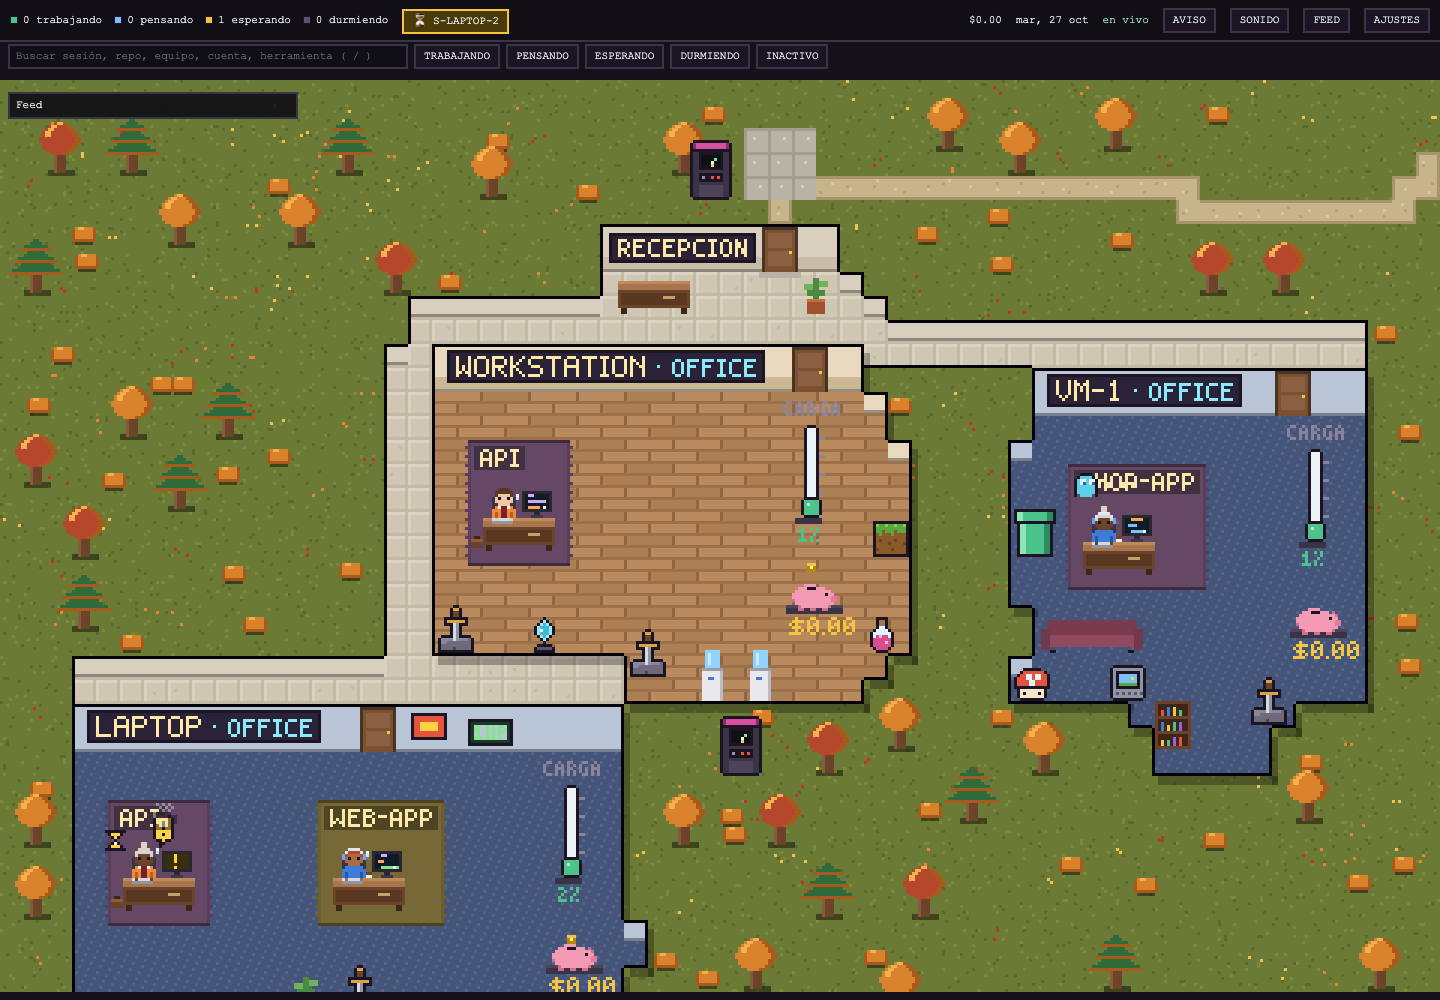
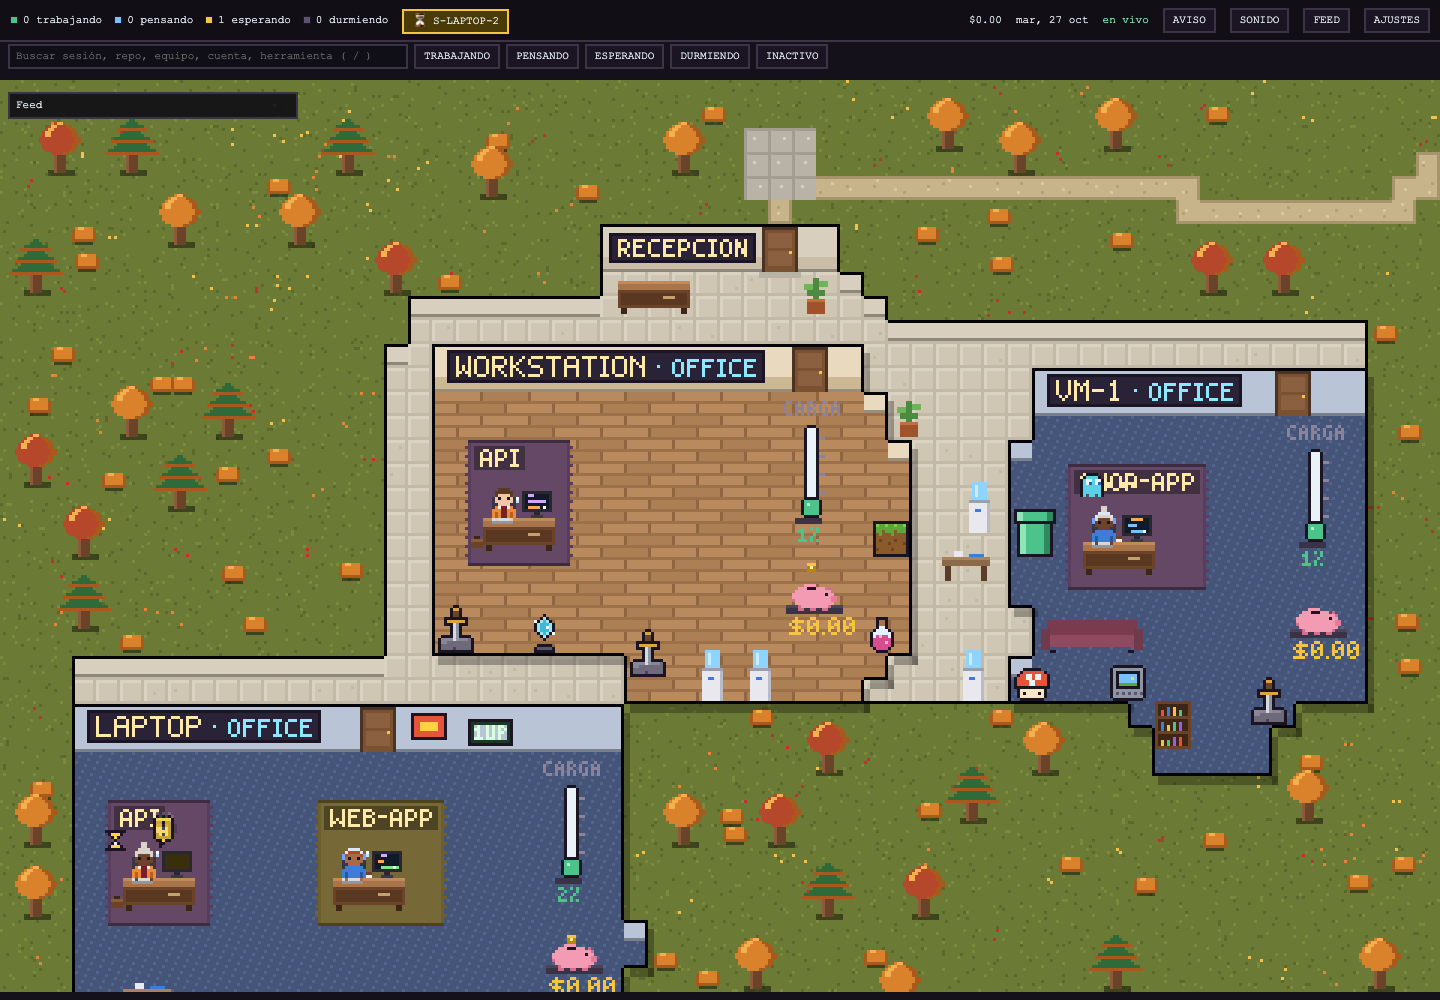
docs y capturas: huella compacta, puertas interiores, liberación hacia común

diff --git a/docs/world.md b/docs/world.md
@@ -55,8 +55,10 @@ sin camino.
 1. **Salas** (`makeDraft`): el contenido (zonas, agentes, cápsulas) fija el ancho y el alto de la sala.
 2. **Mantener / reclamar / colocar** (ver más abajo).
 3. **Pasillos** (`routeDoor`): cada puerta, por orden de antigüedad, se une a la red por la ruta más
-   barata (Dijkstra multiobjetivo sobre tiles compartidos o libres): 0,25 en pasillo previo, 0,5 en suelo
-   común, 1 + ruido en hierba, 4 a través del ala de otra oficina (expropiación: la vecina cede el tile).
+   barata (Dijkstra multiobjetivo sobre tiles compartidos o libres): 0,25 en la red y en pasillo previo
+   que siga pegado a la planta (uno que quedó al aire tras una liberación cuesta como hierba), 0,5 en
+   suelo común, hierba 0,4 + ruido si toca la planta (los pasillos **abrazan los muros**, van por dentro)
+   y +0,9 si no, +2,5 en las columnas laterales, 4 a través del ala de otra oficina (expropiación).
    Las rutas se ensanchan a dos tiles (hacia arriba en tramos horizontales, hacia el este en verticales).
    Las oficinas nuevas se colocan y enrutan una a una; un sitio cuyo pasillo no llega a la recepción se
    descarta y el barrido sigue. Lo que fue pasillo y ya no lleva a nadie vuelve a ser suelo libre.
@@ -67,11 +69,19 @@ sin camino.
    área objetivo = sala × (1,25..1,6), tope 40 tiles de ala, alcance 4 tiles de la sala. Una pasada
    **celular** rellena entrantes (un tile libre con ≥ 3 vecinos de la oficina se une). Luego `shapeUp`
    (bloques 2×2, conexión con la sala) y recorte de lo que no se alcanza desde la entrada.
-5. **Bolsas** (`settlePockets`): todo tile libre encerrado (sin salida a la hierba exterior) pasa a suelo
-   común; si solo lo rodea una oficina y ningún pasillo, se lo queda esa oficina (sin huecos inútiles).
+5. **Huella compacta** (`fillInterior`, `settlePockets`): la planta es una sola masa. Un tile de hierba
+   con suelo a ≤ `COMPACT_N` (4) tiles por ambos lados de su fila, o de su columna, está dentro del
+   edificio y pasa a suelo común (se repite hasta que nada cambia: las concavidades profundas se llenan;
+   solo el contorno exterior es orgánico). Lo mismo para todo hueco encerrado. Se hace antes de que
+   crezcan las alas (para que lo reclamen por acreción) y después. Una bolsa rodeada por una sola
+   oficina en crecimiento y sin pasillo se la queda ella (si cabe en su demanda); un tile de bolsa con
+   oficina a ambos lados (costura) va a la vecina con más contacto; lo demás queda como sala de descanso.
+   Las oficinas en pie nunca cambian de forma por esto. Entre dos oficinas que comparten pared vertical
+   (por debajo de ambas fachadas) se abre una **puerta interior** (`innerDoors`) en el tramo más largo.
 6. **Muebles**: los de oficina siguen `furniture.ts`; las bolsas reciben plantas en las esquinas (tiles
    con dos lados de pared) y sofás, mesas o neveras contra una pared (`commonProblem`).
-7. **Exterior**: explanada y camino hasta el borde del mapa; árboles por hash de tile con distancia mínima
+7. **Exterior**: solo naturaleza (ningún prop de interior pisa la hierba: `outdoor` queda vacío);
+   explanada y camino hasta el borde del mapa; árboles por hash de tile con distancia mínima
    3 (muestreo tipo Poisson-disc por "dart throwing" determinista) y densidad modulada por un ruido de
    baja frecuencia (bosquetes); cada sprite comprueba que todos los tiles bajo él son hierba sin camino
    (nada cruza un muro); arbustos y decoración exterior igual.
@@ -90,8 +100,10 @@ Dado el layout anterior:
   hacia fuera, hierba (el edificio crece por el borde). Nunca una sala ajena ni un pasillo. Si no cabe,
   se reubica en el primer hueco libre y sus tiles viejos se derriban.
 - **Liberar**: con ≥ 8 tiles de ancho sobrantes o una fila de mesas menos, la sala se reconstruye más
-  pequeña en el mismo sitio; lo que suelta sigue la regla de las bolsas: encerrado → sala de descanso,
-  en el borde exterior → hierba (sucesión: vuelven los árboles por hash de tile).
+  pequeña en el mismo sitio y conserva solo las alas que su demanda justifica (sala × 0,5; las más
+  lejanas caen primero); lo que suelta sigue la regla de la huella compacta: dentro de la planta →
+  suelo común (sala de descanso), en el borde exterior → hierba, y los pasillos se vuelven a tender
+  abrazando los muros nuevos (sucesión: vuelven los árboles por hash de tile).
 - **Local**: lo no afectado no se mueve; muebles y mesas de oficinas no afectadas quedan quietos; los
   muebles de una oficina empujada se conservan si siguen siendo válidos.
 
@@ -119,7 +131,9 @@ nuevo, zona nueva, baja, oficina nueva, demolición), histéresis, reclamo gradu
 Comprueba: una sola planta (todo lo que no es hierba está 4‑conectado), recepción íntegra con entrada y
 camino, cada puerta sobre un pasillo y alcanzable desde la recepción por pasillos, pasillo de 2 filas
 delante de cada fachada, sala íntegra, tiles = orden de obra, área ≤ sala × 1,9 + 12, bloques 2×2, sin
-islas, sin alas junto a la fachada, muebles válidos (oficina y zona común), mesas dentro de la sala,
+islas, sin alas junto a la fachada, **huella compacta** (ningún tile de hierba con planta a ≤ 4 tiles por
+ambos lados en su fila o columna), puertas interiores entre dos vecinas bajo sus fachadas, exterior sin
+props de interior, muebles válidos (oficina y zona común, nunca sobre el contorno), mesas dentro de la sala,
 1..3 huecos libres, árboles/arbustos/decoración con todo el sprite sobre hierba, estabilidad (lo no
 afectado no se mueve ni cambia de forma, muebles y fachada iguales, nadie cambia de mesa; una vecina
 empujada solo pierde alas), derribo y obra exactamente en los tiles que cambian de dueño, idempotencia de
